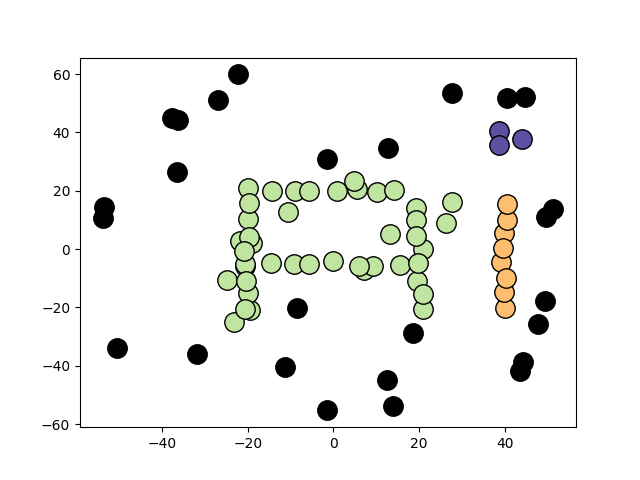
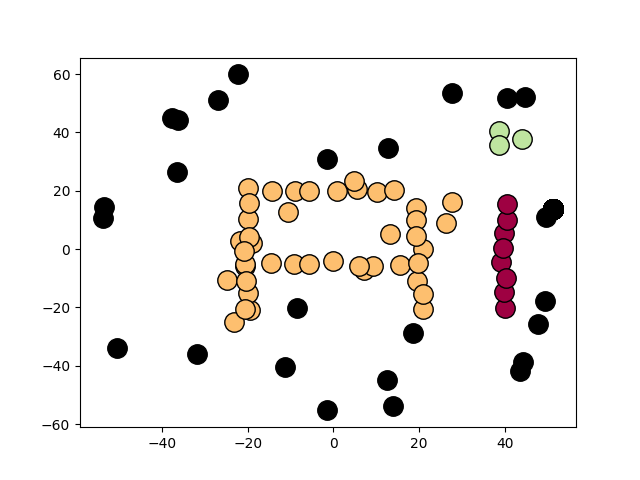
updated to numpy

Changed region(s): [[0.3438, 0.3438, 0.7188, 0.6875], [0.75, 0.4062, 0.8125, 0.6562], [0.75, 0.25, 0.8438, 0.3438]]

diff --git a/HW2/dbscan.py b/HW2/dbscan.py
@@ -1,4 +1,7 @@
 from sklearn.cluster import AgglomerativeClustering
+from sklearn.datasets import fetch_20newsgroups
+from sklearn.feature_extraction.text import TfidfVectorizer
+from sklearn.metrics import silhouette_score
 from sklearn.metrics.pairwise import euclidean_distances
 
 from HW2 import DATA_DIR
@@ -28,64 +31,67 @@ class DBSCAN(object):
 
         :type vectors: pandas object having attrs and a column cluster(labels)
         """
-        # todo can seperate the vectors as numpy array and labels
-        # todo update code as per numpy
-        dist_matrix = euclidean_distances(vectors[self.attr].values, vectors[self.attr].values)
-        C = 1
-        for i, pt in vectors.iterrows():
-            if vectors.at[i, 'cluster'] == NOISE or np.isnan(vectors.at[i, 'cluster']):
+
+        dist_matrix = euclidean_distances(vectors, vectors)
+        C = -1
+        labels = np.empty((vectors.shape[0], 1))
+        labels[:] = np.nan
+        for i in range(vectors.shape[0]):
+            if labels[i] == NOISE or np.isnan(labels[i]):
                 index = np.where(dist_matrix[i] < self.esp)[0].tolist()  # correct code get index
                 if len(index) < self.min_pt:
-                    vectors.at[i, 'cluster'] = NOISE
+                    labels[i] = NOISE
                 else:
-                    vectors.at[i, 'cluster'] = C
+                    C += 1
+                    labels[i] = C
                     q = index
                     while q:
                         j = q.pop()
-                        n_pt = vectors.loc[j]
-                        if n_pt['cluster'] == NOISE or np.isnan(n_pt['cluster']):
-                            vectors.at[j, 'cluster'] = C
+                        n_pt = labels[j]
+                        if n_pt == NOISE or np.isnan(n_pt):
+                            labels[j] = C
                             q.extend(np.where(dist_matrix[j] < self.esp)[0].tolist())
-                C += 1
-        return vectors
+        return labels
 
     def read(self, path):
-        return pd.read_csv(DATA_DIR + path)
+        return pd.read_csv(DATA_DIR + path)[self.attr].values
 
-    def visualise(self, vectors, name='img.png'):
+    def visualise(self, labels, vectors, name='img.png'):
         """
-
+        Only for two attribute datas
         :param vectors: pandas object having labels and vector values
         :param name: name for the image
         """
-        # todo visualisation to be updated as for numpy
         plt.figure()
-        unique_labels = vectors.cluster.unique().tolist()
+        unique_labels = np.unique(labels)
         colors = [plt.cm.Spectral(each)
                   for each in np.linspace(0, 1, len(unique_labels))]
         for k, col in zip(unique_labels, colors):
             if k == NOISE:
                 # Black used for noise.
                 col = [0, 0, 0, 1]
-            plt.plot(vectors[vectors.cluster == k].x.values.tolist(),
-                     vectors[vectors.cluster == k].y.values.tolist(),
+            plt.plot(vectors[np.where(labels == k), 0].tolist(),
+                     vectors[np.where(labels == k), 1].tolist(),
                      'o', markerfacecolor=tuple(col),
                      markeredgecolor='k', markersize=14)
         plt.savefig("img/" + name)
 
-    def cal_purity(self, K, prediction, labels):
+    def cal_purity(self, prediction, labels):
         """
         :return: : returns the purity and the gini coeff
         :rtype: float,float
         """
         # cal_purity(gmm.predict(FMNIST[:, :-1]), 2, FMNIST[:, [-1]], FMNIST[:, [-1]].shape[0], True)
         purity = 0.0
+        K = np.unique(prediction).shape[0]-1
+        print(K)
         SIZE = labels.shape[0]
         for i in range(K):
             indexes = np.argwhere(prediction == i)
             counts = np.bincount(labels[indexes.transpose()[0]])
             purity += counts.max()
         purity = purity / SIZE
+        print purity
         return purity
 
 
@@ -101,43 +107,36 @@ class TOYDBSCAN(DBSCAN):
 class HOUSEDATA(DBSCAN):
     # Date;Time;Global_active_power;Global_reactive_power;Voltage;Global_intensity;Sub_metering_1;Sub_metering_2;
     # Sub_metering_3
-    attr = ['x', 'Global_reactive_power', 'Voltage',
+    attr = [ 'Global_reactive_power', 'Voltage',
             'Global_intensity']
 
     def read(self, path):
         # .(global_active_power * 1000 / 60 - sub_metering_1 - sub_metering_2 - sub_metering_3)
         data = pd.read_csv(DATA_DIR + path, sep=';')
+        for att in self.attr+['Global_active_power','Sub_metering_1','Sub_metering_2']:
+            data = data[data[att] != '?']
+            data[att] = pd.to_numeric(data[att])
+        self.attr.append('x')
         data['x'] = data['Global_active_power'] * 1000 / 60 - (
                 data['Sub_metering_1'] + data['Sub_metering_2'] + data['Sub_metering_3'])
-        data['cluster'] = np.nan
-        return data
+        return data[self.attr].values
 
 
 class NG20(DBSCAN):
-    # Date;Time;Global_active_power;Global_reactive_power;Voltage;Global_intensity;Sub_metering_1;Sub_metering_2;
-    # Sub_metering_3
-    attr = ['x', 'Global_reactive_power', 'Voltage',
-            'Global_intensity']
 
-    def read(self, path):
-        data = pd.read_csv(DATA_DIR + path)
-        data['cluster'] = np.nan
-        return data
+    def read(self, path=None):
+        NEWS_DATA = fetch_20newsgroups(data_home=DATA_DIR, subset='test', remove=('headers', 'footers', 'quotes'), )
+        return TfidfVectorizer(stop_words='english', min_df=3, max_df=0.6).fit_transform(
+            NEWS_DATA.data).todense(), NEWS_DATA.target
 
 
 class FASHIOND(DBSCAN):
-    # Date;Time;Global_active_power;Global_reactive_power;Voltage;Global_intensity;Sub_metering_1;Sub_metering_2;
-    # Sub_metering_3
-    attr = ['x', 'Global_reactive_power', 'Voltage',
-            'Global_intensity']
-
-    def read(self, path):
-        # .(global_active_power * 1000 / 60 - sub_metering_1 - sub_metering_2 - sub_metering_3)
-        data = pd.read_csv(DATA_DIR + path, sep=';')
-        data['x'] = data['Global_active_power'] * 1000 / 60 - (
-                data['Sub_metering_1'] + data['Sub_metering_2'] + data['Sub_metering_3'])
-        data['cluster'] = np.nan
-        return data
+    def read(self, path=None):
+        FMNIST = np.genfromtxt(DATA_DIR + '/fashionmnist/fashion-mnist_test.csv', delimiter=',')
+        print "Data loaded"
+        labels = FMNIST[1:-1, 0].astype(int)
+        vectors = FMNIST[1:-1, 1:]
+        return vectors, labels
 
 
 def hierarchical_clustering():
@@ -150,21 +149,40 @@ def hierarchical_clustering():
 
 
 if __name__ == '__main__':
-    print(" starting hierarchical_clustering")
-    # hierarchical_clustering()
-    print("DBSCAN toy data")
-    dbs = DBSCAN(min_pt=3, esp=7.5)
-    vectors = dbs.fit(dbs.read('/dbscan.csv'))
-    dbs.visualise(vectors)
-    print("DBSCAN moon data")
-    dbs = TOYDBSCAN(min_pt=2)
-    vectors = dbs.fit(dbs.read('/moons.csv'))
-    dbs.visualise(vectors, 'moon.png')
-    print("DBSCAN circle data")
-    dbs = TOYDBSCAN(min_pt=2, esp=0.18)
-    vectors = dbs.fit(dbs.read('/circle.csv'))
-    dbs.visualise(vectors, 'circle.png')
-    print("DBSCAN blob data")
-    dbs = TOYDBSCAN(esp=.37)
-    vectors = dbs.fit(dbs.read('/blobs.csv'))
-    dbs.visualise(vectors, 'blobs.png')
+    # print(" starting hierarchical_clustering")
+    # # hierarchical_clustering()
+    # print("DBSCAN toy data")
+    # dbs = DBSCAN(min_pt=3, esp=7.5)
+    # vectors = dbs.read('/dbscan.csv')
+    # labels = dbs.fit(vectors)
+    # dbs.visualise(labels, vectors)
+    # print("DBSCAN moon data")
+    # dbs = TOYDBSCAN(min_pt=2)
+    # vectors = dbs.fit(dbs.read('/moons.csv'))
+    # dbs.visualise(vectors, 'moon.png')
+    # print("DBSCAN circle data")
+    # dbs = TOYDBSCAN(min_pt=2, esp=0.18)
+    # vectors = dbs.fit(dbs.read('/circle.csv'))
+    # dbs.visualise(vectors, 'circle.png')
+    # print("DBSCAN blob data")
+    # dbs = TOYDBSCAN(esp=.37)
+    # vectors = dbs.fit(dbs.read('/blobs.csv'))
+    # dbs.visualise(vectors, 'blobs.png')
+    # print("DBSCAN NG20")
+    # dbs = NG20(min_pt=3, esp=.3)
+    # vectors, labels = dbs.read()
+    # pred_labels = dbs.fit(vectors)
+    # print silhouette_score(vectors, pred_labels.transpose()[0])
+    # dbs.cal_purity(pred_labels, labels)
+    # print("DBSCAN FASHIOND")
+    # dbs = FASHIOND(min_pt=2, esp=.3)
+    # vectors, labels = dbs.read()
+    # pred_labels = dbs.fit(vectors)
+    # print silhouette_score(vectors, pred_labels.transpose()[0])
+    # dbs.cal_purity(pred_labels, labels)
+    print("DBSCAN HouseHold")
+    dbs = HOUSEDATA(min_pt=2, esp=.3)
+    vectors = dbs.read('/household_power_consumption.txt')
+    pred_labels = dbs.fit(vectors)
+    print silhouette_score(vectors, pred_labels.transpose()[0])
+
